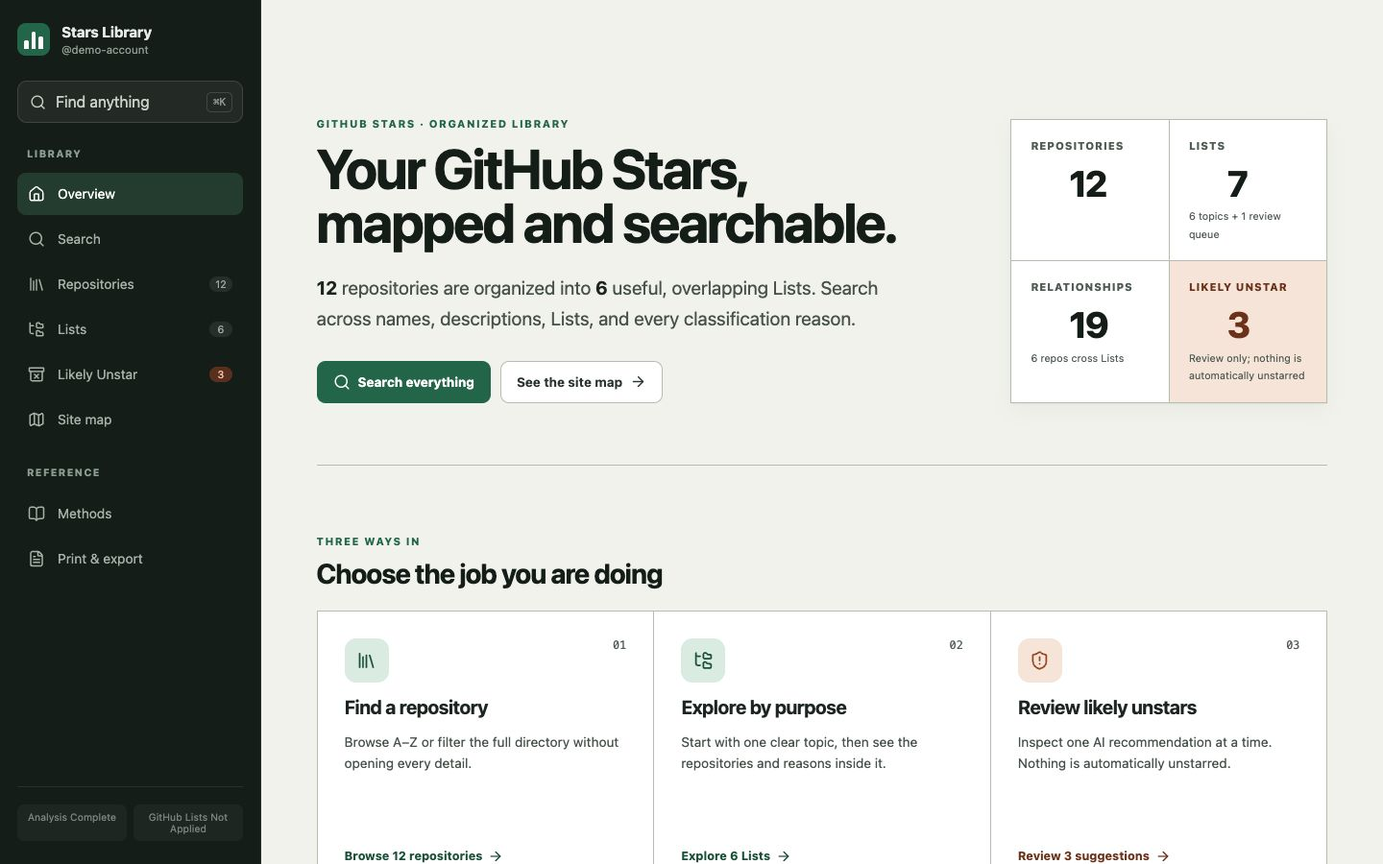
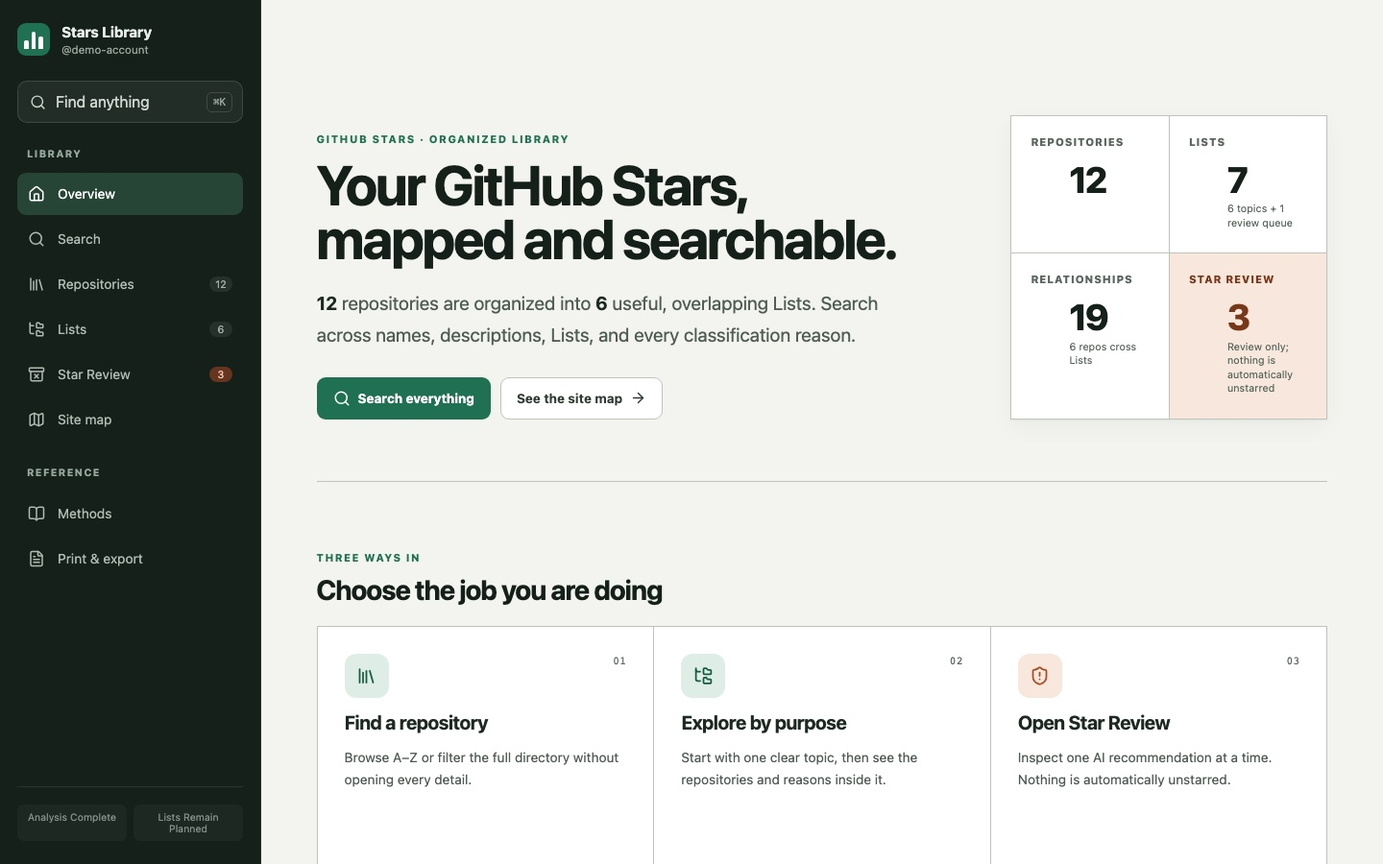
Rename review queue to Star Review

diff --git a/skills/explain-my-stars/site/src/pages/UtilityPages.tsx b/skills/explain-my-stars/site/src/pages/UtilityPages.tsx
@@ -33,7 +33,7 @@ export function SitemapPage() {
         <div className="sitemap-branches">
           <article><Library aria-hidden="true" /><p className="eyebrow">{t('Find by identity', '依名稱尋找')}</p><h2><Link to="/repositories">Repositories</Link></h2><p>{t('A–Z and filtered directory.', 'A–Z 與可篩選目錄。')}</p><div className="sitemap-child"><span>{t(`${model.analysis.repositories.length} detail pages`, `${model.analysis.repositories.length} 個詳情頁`)}</span><small>{t('Description · classifications · reasons · related repos', '說明 · 分類 · 理由 · 相關 repos')}</small></div></article>
           <article><FolderTree aria-hidden="true" /><p className="eyebrow">{t('Find by purpose', '依用途尋找')}</p><h2><Link to="/lists">Lists</Link></h2><p>{t(`${model.classificationLists.length} independent browsing outcomes.`, `${model.classificationLists.length} 個獨立瀏覽用途。`)}</p><div className="sitemap-child"><span>{t(`${model.classificationLists.length} List pages`, `${model.classificationLists.length} 個 List 頁面`)}</span><small>{t('Description · members · reasons · related Lists', '說明 · 成員 · 理由 · 相關 Lists')}</small></div></article>
-          <article className="sitemap-review"><ShieldAlert aria-hidden="true" /><p className="eyebrow">{t('Make a decision', '做出決定')}</p><h2><Link to="/review">{t('Likely Unstar', '建議 Unstar')}</Link></h2><p>{t(`${model.reviewRepositories.length} AI suggestions for human review.`, `${model.reviewRepositories.length} 個待人工複核的 AI 建議。`)}</p><div className="sitemap-child"><span>{t(`${model.reviewRepositories.length} review pages`, `${model.reviewRepositories.length} 個複核頁面`)}</span><small>{t('Concern · remaining value · local decision', '疑慮 · 剩餘價值 · 本機決定')}</small></div></article>
+          <article className="sitemap-review"><ShieldAlert aria-hidden="true" /><p className="eyebrow">{t('Make a decision', '做出決定')}</p><h2><Link to="/review">{t('Star Review', 'Star 複核')}</Link></h2><p>{t(`${model.reviewRepositories.length} AI suggestions for human review.`, `${model.reviewRepositories.length} 個待人工複核的 AI 建議。`)}</p><div className="sitemap-child"><span>{t(`${model.reviewRepositories.length} review pages`, `${model.reviewRepositories.length} 個複核頁面`)}</span><small>{t('Concern · remaining value · local decision', '疑慮 · 剩餘價值 · 本機決定')}</small></div></article>
         </div>
         <div className="sitemap-utilities">
           <Link to="/search"><strong>{t('Global search', '全域搜尋')}</strong><small>{t('Crosses every repository, List, and reason', '涵蓋所有 repository、List 與理由')}</small><ArrowRight size={16} /></Link>
@@ -60,7 +60,7 @@ export function MethodsPage() {
         <article><span>01</span><h2>{t('Frozen source', '凍結來源')}</h2><p>{t('The site reads one validated stars-analysis.json. It does not mix in newer GitHub facts while presenting this run.', '網站只讀取一份已驗證的 stars-analysis.json；呈現本次結果時，不會混入較新的 GitHub 資料。')}</p><dl><div><dt>{t('Generated', '產生時間')}</dt><dd><time dateTime={model.analysis.generated_at}>{new Date(model.analysis.generated_at).toLocaleString(model.analysis.locale)}</time></dd></div><div><dt>{t('Account', '帳號')}</dt><dd><bdi dir="auto">{model.analysis.account.login}</bdi></dd></div><div><dt>{t('Exact source SHA-256', '精確來源 SHA-256')}</dt><dd><code>{provenance.source.stars_analysis_bytes_sha256}</code></dd></div></dl></article>
         <article><span>02</span><h2>{t('Semantic fidelity', '語意忠實度')}</h2><p>{t('List names, descriptions, repository identities, memberships, reasons, sensitivity, and queue eligibility remain unchanged. The passing receipt is offline evidence with the limits disclosed below.', 'List 名稱與說明、repository 身分、歸屬、理由、敏感度與佇列資格都保持不變；通過的收據是離線證據，其限制完整列於下方。')}</p><dl><div><dt>Schema</dt><dd>{model.analysis.schema_version}</dd></div><div><dt>{t('Coverage', '覆蓋')}</dt><dd>{model.analysis.validation.coverage_status}</dd></div><div><dt>{t('Semantic receipt', '語意收據')}</dt><dd><code>{provenance.semantic.validation_receipt_sha256}</code></dd></div></dl></article>
         <article><span>03</span><h2>{t('Overlapping Lists', '可重疊 Lists')}</h2><p>{t('A repository belongs to multiple Lists only when each List provides an independently useful browsing path.', '只有當每個 List 都提供獨立且實用的瀏覽路徑時，repository 才會同時屬於多個 Lists。')}</p><dl><div><dt>{t('Classification relationships', '分類關係')}</dt><dd>{model.classificationMembershipCount}</dd></div><div><dt>{t('Repositories crossing Lists', '跨 Lists 的 repositories')}</dt><dd>{model.overlapRepositoryCount}</dd></div></dl></article>
-        <article><span>04</span><h2>{t('Likely Unstar', '建議 Unstar')}</h2><p>{t('AI suggestions are presented with their direct reason and remaining classifications. Only the user decides whether to unstar.', 'AI 建議會連同直接理由與保留的分類一起呈現；只有使用者能決定是否 unstar。')}</p><dl><div><dt>{t('Sensitivity', '敏感度')}</dt><dd>{model.analysis.run.likely_unstar_sensitivity}/10</dd></div><div><dt>{t('Suggestions', '建議')}</dt><dd>{model.reviewRepositories.length}</dd></div></dl></article>
+        <article><span>04</span><h2>{t('Star Review', 'Star 複核')}</h2><p>{t('Repositories worth another look are presented with their direct reason and remaining classifications. Only the user decides whether to unstar.', '值得再次檢視的 repositories 會連同直接理由與保留的分類一起呈現；只有使用者能決定是否 unstar。')}</p><dl><div><dt>{t('Sensitivity', '敏感度')}</dt><dd>{model.analysis.run.likely_unstar_sensitivity}/10</dd></div><div><dt>{t('Suggestions', '建議')}</dt><dd>{model.reviewRepositories.length}</dd></div></dl></article>
         <article><span>05</span><h2>{t('Application evidence', '套用證據')}</h2><p>{appliedClaim
           ? t('A separately validated external receipt claims the planned Lists were applied. This is receipt-backed metadata, not a live fact authenticated by GitHub.', '一份另行驗證的外部收據聲稱規劃中的 Lists 已套用。這是由收據支持的 metadata，不是經 GitHub 驗證的即時事實。')
           : t('No application receipt was supplied. This report presents the immutable plan and does not claim that GitHub Lists changed.', '未提供套用收據；這份報告只呈現不可變的規劃結果，不聲稱 GitHub Lists 已有變更。')}</p><dl><div><dt>{t('Application status', '套用狀態')}</dt><dd>{applicationLabel}</dd></div>{appliedClaim ? <div><dt>{t('External receipt', '外部收據')}</dt><dd><code>{provenance.application.receipt_sha256}</code></dd></div> : null}<div><dt>{t('Analysis status', '分析狀態')}</dt><dd>{model.analysis.run.analysis_status}</dd></div></dl></article>

diff --git a/skills/explain-my-stars/site/src/pages/ReviewPages.tsx b/skills/explain-my-stars/site/src/pages/ReviewPages.tsx
@@ -165,7 +165,7 @@ export function ReviewQueuePage() {
         <label><span className="sr-only">{t('Filter by classification List', '依分類 List 篩選')}</span><select value={listId} onChange={(event) => update('list', event.target.value)}><option value="">{t('All classifications', '所有分類')}</option>{model.classificationLists.map((list) => <option key={list.id} value={list.id}>{list.name}</option>)}</select></label>
       </section>
       <div className="directory-status" role="status">{t('', '顯示 ')}<strong>{repositories.length}</strong>{t(` of ${model.reviewRepositories.length} suggestions`, ` / ${model.reviewRepositories.length} 個建議`)}</div>
-      <section className="review-directory" aria-label={t('Likely Unstar suggestions', '建議 Unstar 清單')}>
+      <section className="review-directory" aria-label={t('Star Review suggestions', 'Star 複核建議')}>
         {repositories.length ? <Virtuoso data={repositories} increaseViewportBy={200} itemContent={(index, repository) => {
           const reason = repository.memberships.find((membership) => membership.list_id === model.reviewList.id)?.reason;
           const decision = decisions[repository.full_name];
@@ -188,7 +188,7 @@ export function ReviewDetailPage() {
     model.provenance.semantic.candidate_sha256
   );
   if (!repository || !model.reviewRepositories.some((candidate) => candidate.full_name === repository.full_name)) {
-    return <div className="page"><PageHeader eyebrow={t('Review', '複核')} title={t('Suggestion not found', '找不到此建議')} description={t('This repository is not in the current Likely Unstar queue.', '這個 repository 不在目前的建議 Unstar 佇列中。')} /><Link className="button button--primary" to="/review">{t('Return to queue', '返回佇列')}</Link></div>;
+    return <div className="page"><PageHeader eyebrow={t('Review', '複核')} title={t('Suggestion not found', '找不到此建議')} description={t('This repository is not in the current Star Review queue.', '這個 repository 不在目前的 Star 複核佇列中。')} /><Link className="button button--primary" to="/review">{t('Return to queue', '返回佇列')}</Link></div>;
   }
   const index = model.reviewRepositories.findIndex((candidate) => candidate.full_name === repository.full_name);
   const previous = model.reviewRepositories[index - 1];
@@ -199,10 +199,10 @@ export function ReviewDetailPage() {
 
   return (
     <div className="page page--review-detail">
-      <PageHeader eyebrow={t(`Review ${index + 1} of ${model.reviewRepositories.length}`, `複核第 ${index + 1} / ${model.reviewRepositories.length} 筆`)} title={repository.full_name} description={repository.description || t('No repository description was available.', '沒有可用的 repository 說明。')} crumbs={[{ label: t('Likely Unstar', '建議 Unstar'), to: '/review' }, { label: repository.full_name }]} monospaceTitle />
+      <PageHeader eyebrow={t(`Review ${index + 1} of ${model.reviewRepositories.length}`, `複核第 ${index + 1} / ${model.reviewRepositories.length} 筆`)} title={repository.full_name} description={repository.description || t('No repository description was available.', '沒有可用的 repository 說明。')} crumbs={[{ label: t('Star Review', 'Star 複核'), to: '/review' }, { label: repository.full_name }]} monospaceTitle />
       <div className="review-detail-layout">
         <section className="review-evidence">
-          <div className="review-reason-block"><p className="eyebrow">{t('Why AI surfaced it', 'AI 為什麼提出這個建議')}</p><h2>{t('Likely Unstar reason', '建議 Unstar 的理由')}</h2><p>{reason}</p><small>{t('This is evidence for your review, not an instruction to remove it.', '這是供你複核的依據，不是要求移除的指令。')}</small></div>
+          <div className="review-reason-block"><p className="eyebrow">{t('Why AI surfaced it', 'AI 為什麼提出這個建議')}</p><h2>{t('Star Review reason', 'Star 複核理由')}</h2><p>{reason}</p><small>{t('This is evidence for your review, not an instruction to remove it.', '這是供你複核的依據，不是要求移除的指令。')}</small></div>
           <div className="section-heading"><p className="eyebrow">{t('What remains useful', '仍然有用的部分')}</p><h2>{t('Current classifications', '目前分類')}</h2></div>
           <div className="membership-stack">
             {classifications.length ? classifications.map((membership) => {

diff --git a/skills/explain-my-stars/site/src/pages/BrowsePages.tsx b/skills/explain-my-stars/site/src/pages/BrowsePages.tsx
@@ -83,7 +83,7 @@ export function ListsPage() {
       </section>
       <aside className="review-callout">
         <ShieldAlert aria-hidden="true" />
-        <div><p className="eyebrow">{t('Separate review workflow', '獨立的複核流程')}</p><h2>{t('Likely Unstar is not a topic List', '建議 Unstar 不是主題 List')}</h2><p>{t('It remains separate because it asks for a decision, not a browsing purpose.', '它要求使用者做決定，而不是提供瀏覽用途，因此保持獨立。')}</p></div>
+        <div><p className="eyebrow">{t('Separate review workflow', '獨立的複核流程')}</p><h2>{t('Star Review is not a topic List', 'Star 複核不是主題 List')}</h2><p>{t('It remains separate because it asks for a decision, not a browsing purpose.', '它要求使用者做決定，而不是提供瀏覽用途，因此保持獨立。')}</p></div>
         <Link className="button button--secondary" to="/review">{t('Open review queue', '開啟複核佇列')}</Link>
       </aside>
     </div>
@@ -163,7 +163,7 @@ export function RepositoryDetailPage() {
         monospaceTitle
         actions={<a className="button button--primary" href={repository.url} target="_blank" rel="noreferrer noopener">{t('Open GitHub', '在 GitHub 開啟')} <ExternalLink aria-hidden="true" size={16} /></a>}
       />
-      {reviewMembership ? <section className="repository-review-banner"><ShieldAlert aria-hidden="true" /><div><p className="eyebrow">{t('AI review suggestion', 'AI 複核建議')}</p><h2>{t('Likely Unstar', '建議 Unstar')}</h2><p>{reviewMembership.reason}</p><small>{t('This is a suggestion for you to inspect, not an automatic unstar.', '這只是請你檢視的建議，不會自動 unstar。')}</small></div><Link to={`/review/${encodeURIComponent(owner)}/${encodeURIComponent(name)}`}>{t('Review in context', '前往複核')} <ArrowRight size={16} /></Link></section> : null}
+      {reviewMembership ? <section className="repository-review-banner"><ShieldAlert aria-hidden="true" /><div><p className="eyebrow">{t('AI review suggestion', 'AI 複核建議')}</p><h2>{t('Star Review', 'Star 複核')}</h2><p>{reviewMembership.reason}</p><small>{t('This is a suggestion for you to inspect, not an automatic unstar.', '這只是請你檢視的建議，不會自動 unstar。')}</small></div><Link to={`/review/${encodeURIComponent(owner)}/${encodeURIComponent(name)}`}>{t('Review in context', '前往複核')} <ArrowRight size={16} /></Link></section> : null}
       <div className="detail-layout">
         <section className="detail-main" aria-labelledby="membership-heading">
           <div className="section-heading"><p className="eyebrow">{t('Classification', '分類')}</p><h2 id="membership-heading">{t('Where it belongs—and why', '它屬於哪些 Lists，以及原因')}</h2><p>{t(`${classificationMemberships.length} supported browsing ${classificationMemberships.length === 1 ? 'purpose' : 'purposes'}.`, `${classificationMemberships.length} 個有根據的瀏覽用途。`)}</p></div>

diff --git a/skills/explain-my-stars/site/src/App.test.tsx b/skills/explain-my-stars/site/src/App.test.tsx
@@ -107,7 +107,7 @@ describe('Stars site routing', () => {
     expect(await screen.findByRole('heading', { name: '站點地圖', level: 1 })).toBeInTheDocument();
     expect(screen.getAllByRole('link', { name: 'Repositories' }).length).toBeGreaterThan(0);
     expect(screen.getAllByRole('link', { name: 'Lists' }).length).toBeGreaterThan(0);
-    expect(screen.getAllByRole('link', { name: '建議 Unstar' }).length).toBeGreaterThan(0);
+    expect(screen.getAllByRole('link', { name: 'Star 複核' }).length).toBeGreaterThan(0);
   });
 
   it('keeps the overview definition list structurally valid', async () => {
@@ -128,17 +128,17 @@ describe('Stars site routing', () => {
     expect(screen.getByText('It includes a visual interface for composing workflows.')).toBeInTheDocument();
   });
 
-  it('keeps Likely Unstar separate from classification Lists', async () => {
+  it('keeps Star Review separate from classification Lists', async () => {
     renderRoute('/lists');
     expect(await screen.findByRole('heading', { name: 'Lists', level: 1 })).toBeInTheDocument();
-    expect(screen.getByText('建議 Unstar 不是主題 List')).toBeInTheDocument();
-    expect(screen.queryByRole('link', { name: /Likely Unstar\s+1 repos/ })).not.toBeInTheDocument();
+    expect(screen.getByText('Star 複核不是主題 List')).toBeInTheDocument();
+    expect(screen.queryByRole('link', { name: /Star Review\s+1 repos/ })).not.toBeInTheDocument();
   });
 
-  it('routes a Likely Unstar search result to the review queue instead of a List 404', async () => {
-    renderRoute('/search?q=Likely%20Unstar');
+  it('routes a Star Review search result to the review queue instead of a List 404', async () => {
+    renderRoute('/search?q=Star%20Review');
     expect(await screen.findByRole('heading', { name: '搜尋全部內容', level: 1 })).toBeInTheDocument();
-    expect(screen.getAllByRole('link', { name: /Likely Unstar/ }).some((link) => link.getAttribute('href') === '/review')).toBe(true);
+    expect(screen.getAllByRole('link', { name: /Star Review/ }).some((link) => link.getAttribute('href') === '/review')).toBe(true);
   });
 
   it('opens global search without mutating an inline body style blocked by the CSP', async () => {

diff --git a/skills/explain-my-stars/site/src/pages/OverviewPage.tsx b/skills/explain-my-stars/site/src/pages/OverviewPage.tsx
@@ -79,7 +79,7 @@ export function OverviewPage() {
           <Link className="route-card route-card--review" to="/review">
             <span className="route-card__icon"><ShieldAlert aria-hidden="true" /></span>
             <span className="route-card__number">03</span>
-            <strong>{t('Review likely unstars', `複核 ${model.reviewList.name}`)}</strong>
+            <strong>{t('Open Star Review', `開啟 ${model.reviewList.name}`)}</strong>
             <p>{t('Inspect one AI recommendation at a time. Nothing is automatically unstarred.', '一次查看一個 AI 建議；不會自動 unstar。')}</p>
             <span className="route-card__link">{t(`Review ${model.reviewRepositories.length} suggestions`, `複核 ${model.reviewRepositories.length} 個建議`)} <ArrowRight size={16} /></span>
           </Link>

diff --git a/skills/explain-my-stars/site/src/components/AppShell.tsx b/skills/explain-my-stars/site/src/components/AppShell.tsx
@@ -20,7 +20,7 @@ const links = [
   { to: '/search', en: 'Search', zh: '搜尋', icon: Search },
   { to: '/repositories', en: 'Repositories', zh: 'Repositories', icon: Library },
   { to: '/lists', en: 'Lists', zh: 'Lists', icon: FolderTree },
-  { to: '/review', en: 'Likely Unstar', zh: '建議 Unstar', icon: ArchiveX },
+  { to: '/review', en: 'Star Review', zh: 'Star 複核', icon: ArchiveX },
   { to: '/sitemap', en: 'Site map', zh: '站點地圖', icon: Map },
   { to: '/methods', en: 'Methods', zh: '方法', icon: BookOpen },
   { to: '/print', en: 'Print & export', zh: '列印與匯出', icon: FileText }

diff --git a/skills/explain-my-stars/site/src/test/fixture.ts b/skills/explain-my-stars/site/src/test/fixture.ts
@@ -13,7 +13,7 @@ export const fixture: StarsAnalysis = {
   lists: [
     { id: 'agents', name: 'Agent Workflows', kind: 'classification', description: 'Runnable agent systems.' },
     { id: 'design', name: 'Design Tools', kind: 'classification', description: 'Tools for interface design.' },
-    { id: 'likely-unstar', name: 'Likely Unstar', kind: 'review-queue', description: 'Review suggestions.' }
+    { id: 'likely-unstar', name: 'Star Review', kind: 'review-queue', description: 'Repositories worth another look before you decide what still belongs in your Stars.' }
   ],
   repositories: [
     {

diff --git a/skills/tidy-my-stars/SKILL.md b/skills/tidy-my-stars/SKILL.md
@@ -41,7 +41,7 @@ Before collecting evidence, read and follow [references/semantic-analysis-contra
    - Identify its demonstrated primary purpose and every independently useful browsing outcome.
    - Do not classify from names, descriptions, topics, popularity, current Lists, keyword overlap, or a fixed ontology.
    - Do not turn interfaces, integrations, implementation details, maintenance workflows, or internal orchestration into categories unless they are a distinct first-class outcome a person would deliberately browse for.
-   - Keep a repository unclassified when primary evidence is exhausted and no supported outcome remains. Classification and retention are independent: being unclassified does not by itself include or exclude the repository from Likely Unstar. Do not invent a catch-all category.
+   - Keep a repository unclassified when primary evidence is exhausted and no supported outcome remains. Classification and retention are independent: being unclassified does not by itself include or exclude the repository from Star Review. Do not invent a catch-all category.
 
 3. Design one taxonomy after the whole inventory is understood.
    - Only after all semantic assessments pass, combine semantically equivalent outcomes into one global set of clear, direct browsing destinations. Use fewer than 31 classification Lists when fewer are more useful.
@@ -50,9 +50,9 @@ Before collecting evidence, read and follow [references/semantic-analysis-contra
    - Never use `Misc`, `Other`, `Curiosities`, `Unsorted`, or a renamed equivalent as an uncertainty destination.
 
 4. Make one user-decision recommendation queue.
-   - Keep exactly one clearly named queue that notifies the user of AI `Likely unstar` recommendations. Queue membership does not remove any supported classification membership; only the user decides whether to unstar.
+   - Keep exactly one queue named `Star Review` with the description `Repositories worth another look before you decide what still belongs in your Stars.` Queue membership does not remove any supported classification membership; only the user decides whether to unstar.
    - Read [references/likely-unstar-sensitivity.md](references/likely-unstar-sensitivity.md) before making queue decisions. Use the user's selected sensitivity, or level 5 when the user did not select one.
-   - At the start of every run, state `Likely Unstar sensitivity: <level>/10`, identify level 5 when it is the default, say that 1 is narrow and 10 is broad, and tell the user they may change it before GitHub writes. Continue without waiting when defaulting to level 5.
+   - At the start of every run, state `Star Review sensitivity: <level>/10`, identify level 5 when it is the default, say that 1 is narrow and 10 is broad, and tell the user they may change it before GitHub writes. Continue without waiting when defaulting to level 5.
    - After understanding the complete collection, use judgment to find every Star that likely gives this user too little practical, learning, research, historical, reference, or distinctive value to keep. This is a useful opinion about the user's collection, not a claim that the repository has zero value to everyone.
    - Make the recommendation from the repository's complete evidence and its place among the user's other Stars. Consider usefulness, quality, relevance, novelty, maturity, maintenance, and overlap when they matter. Use relevant external evidence when it materially improves that judgment. Do not require a formal lifecycle defect, a documented successor, or a comparator; do not let any one of those signals decide the outcome alone.
    - Apply the selected sensitivity to queue eligibility. Treat evidence strength as confidence and explanation, not as sensitivity. Do not target a numerical queue size.

diff --git a/README.md b/README.md
@@ -6,7 +6,7 @@
 
 Turn every GitHub Star into useful, overlapping Lists and a searchable report.
 
-**Never automatically unstars anything.** `Likely Unstar` is a review queue;
+**Never automatically unstars anything.** `Star Review` is a review queue;
 the user always makes the final decision.
 
 [**Try the live synthetic demo →**](https://z116123123x.github.io/tidy-my-stars/)
@@ -40,11 +40,11 @@ both, and installing only one is incomplete.
 The generated report is a navigable collection explorer, not a flat export.
 Start from a compact overview or site map, search repositories, Lists, and
 exact classification reasons, follow overlapping Lists, and review each
-Likely Unstar suggestion without changing GitHub.
+Star Review suggestion without changing GitHub.
 
-![Synthetic Stars Library overview with persistent navigation, collection counts, and direct paths to repositories, Lists, and Likely Unstar review.](docs/assets/report-overview.jpg)
+![Synthetic Stars Library overview with persistent navigation, collection counts, and direct paths to repositories, Lists, and Star Review.](docs/assets/report-overview.jpg)
 
-![Synthetic Likely Unstar review with the AI rationale, remaining List classification, and local Keep, Decide later, and Consider unstar controls.](docs/assets/report-review.jpg)
+![Synthetic Star Review page with the AI rationale, remaining List classification, and local Keep, Decide later, and Consider unstar controls.](docs/assets/report-review.jpg)
 
 _These images use [entirely synthetic demo data](docs/demo/synthetic-analysis.json).
 Real reports can expose private repositories, memberships, and AI review
@@ -59,8 +59,9 @@ reasons, so keep them private unless separately reviewed for publication._
    remains.
 3. Understands the whole collection before deriving up to 31 clear,
    overlapping classification Lists.
-4. Creates exactly one human-decision queue for AI `Likely Unstar`
-   recommendations. It never unstars a repository.
+4. Creates exactly one human-decision queue named `Star Review`. It contains
+   repositories worth another look before the user decides what still belongs
+   in their Stars. It never unstars a repository.
 5. Freezes and independently reviews the candidate, then reads current Lists and
    memberships only to calculate one exact full-replacement diff.
 6. Validates the complete semantic run and exact planned `stars-analysis.json`,
@@ -147,10 +148,10 @@ Tidy my stars
 Optional controls can be stated in the same request:
 
 ```text
-Tidy my stars. Use Likely Unstar sensitivity 7/10 and build the report in my existing SvelteKit app.
+Tidy my stars. Use Star Review sensitivity 7/10 and build the report in my existing SvelteKit app.
 ```
 
-Likely Unstar sensitivity ranges from 1 (narrow) to 10 (broad) and defaults to
+Star Review sensitivity ranges from 1 (narrow) to 10 (broad) and defaults to
 5. The queue is only a recommendation for the user to review.
 
 The bundled React implementation outputs:

diff --git a/skills/explain-my-stars/SKILL.md b/skills/explain-my-stars/SKILL.md
@@ -1,6 +1,6 @@
 ---
 name: explain-my-stars
-description: Use when a structured GitHub Stars analysis needs a navigable report with search, Lists, repository details, membership reasons, and Likely Unstar review.
+description: Use when a structured GitHub Stars analysis needs a navigable report with search, Lists, repository details, membership reasons, and Star Review.
 license: Apache-2.0
 compatibility: Requires local filesystem access. The bundled React report requires Node.js ^22.22.2 || ^24.15.0 || >=26.0.0, npm 10+, and browser access.
 metadata:
@@ -96,4 +96,4 @@ Turn one frozen Stars analysis into a clear, navigable report. Preserve every se
   validation notes in presentation.
 - Never unstar, write to GitHub, publish, deploy, add analytics, or load runtime
   third-party content without the required authorization.
-- Likely Unstar remains an AI recommendation for human review; report-local decisions do not change GitHub or the frozen analysis.
+- Star Review remains an AI recommendation for human review; report-local decisions do not change GitHub or the frozen analysis.

diff --git a/skills/tidy-my-stars/references/likely-unstar-sensitivity.md b/skills/tidy-my-stars/references/likely-unstar-sensitivity.md
@@ -1,4 +1,4 @@
-# Likely Unstar Sensitivity
+# Star Review Sensitivity
 
 Sensitivity is the run-level threshold for adding repositories to the
 user-decision queue. It is not a repository quality score, evidence confidence,
@@ -10,7 +10,7 @@ a repository that qualifies at one level also qualifies at every higher level.
 
 A numeric selection is valid only when it is a whole-number level from 1
 through 10. If the user explicitly supplies any other numeric value, do not
-clamp, round, or default it. State `Likely Unstar sensitivity: invalid
+clamp, round, or default it. State `Star Review sensitivity: invalid
 (<value>). Choose a whole-number level from 1 to 10; 1 is narrow and 10 is
 broad.` Obtain a valid level before continuing the run.
 

diff --git a/tests/tidy-my-stars/fixtures/tail-decoy/README.md b/tests/tidy-my-stars/fixtures/tail-decoy/README.md
@@ -46,7 +46,7 @@ node tests/tidy-my-stars/run-tail-decoy-canary.mjs check <absolute-workspace>
 
 The first gate is deterministic: the harness invokes the real offline semantic
 validator, verifies product-versus-catalog behavior, the decisive tail anchor,
-the scratchpad's unclassified plus Likely Unstar outcome, rejected
+the scratchpad's unclassified plus Star Review outcome, rejected
 decoys/injection, and unchanged collector evidence. The second gate compares a
 complete semantic snapshot,
 including primary-purpose text, intent outcomes, List names/descriptions,
